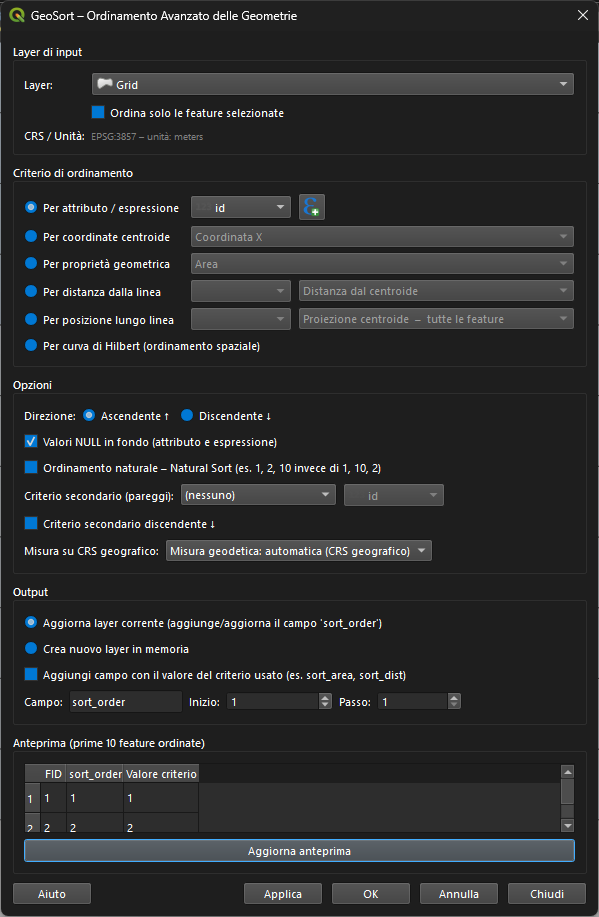
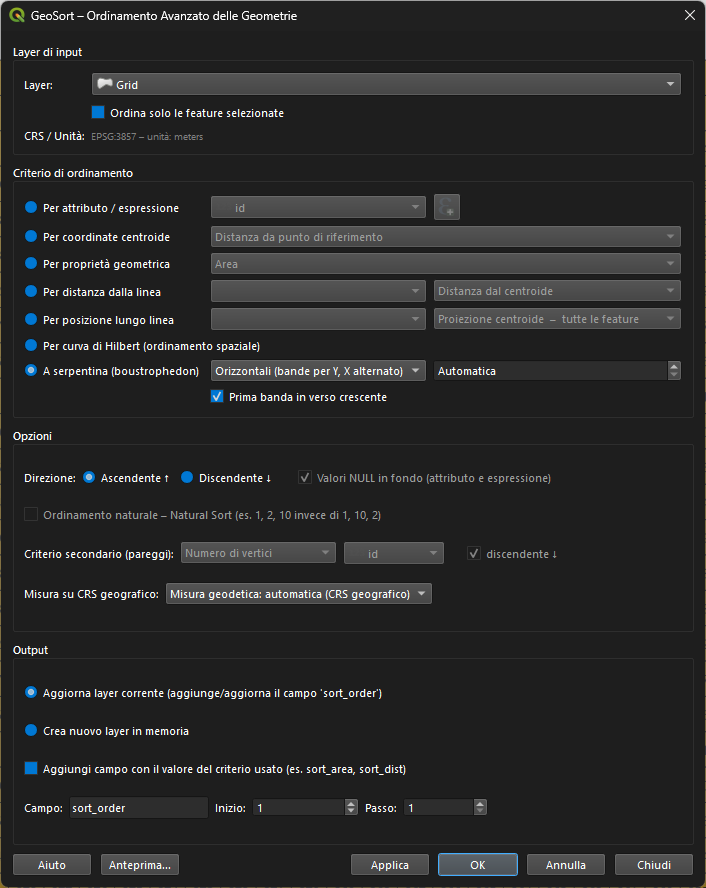
chore(release): 1.11.1 — dialogo GUI più compatto
- metadata.txt: version 1.11.0 -> 1.11.1, changelog aggiornato
- README.md / README.en.md: badge versione allineato a 1.11.1
- gui.png: screenshot aggiornato al nuovo layout compatto (anteprima
  in popup accanto ad Aiuto, Opzioni su righe unite, Serpentina)

Changed region(s): [[0.0, 0.0, 1.0, 1.0], [0.7513, 0.7601, 0.7813, 0.7905]]

diff --git a/README.md b/README.md
@@ -2,7 +2,7 @@
 
 🇮🇹 **Italiano** | [🇬🇧 English](README.en.md)
 
-[![Version](https://img.shields.io/badge/version-1.11.0-blue.svg)](https://github.com/pigreco/geosort/releases)
+[![Version](https://img.shields.io/badge/version-1.11.1-blue.svg)](https://github.com/pigreco/geosort/releases)
 [![Languages](https://img.shields.io/badge/languages-IT%20%7C%20EN-green.svg)](#lingue--languages)
 [![QGIS](https://img.shields.io/badge/QGIS-3.16%2B%20%7C%204.x-orange.svg)](#requisiti)
 [![License](https://img.shields.io/badge/license-GPLv2-red.svg)](LICENSE)

diff --git a/README.en.md b/README.en.md
@@ -2,7 +2,7 @@
 
 [🇮🇹 Italiano](README.md) | 🇬🇧 **English**
 
-[![Version](https://img.shields.io/badge/version-1.11.0-blue.svg)](https://github.com/pigreco/geosort/releases)
+[![Version](https://img.shields.io/badge/version-1.11.1-blue.svg)](https://github.com/pigreco/geosort/releases)
 [![Languages](https://img.shields.io/badge/languages-IT%20%7C%20EN-green.svg)](#languageslingue)
 [![QGIS](https://img.shields.io/badge/QGIS-3.16%2B%20%7C%204.x-orange.svg)](#requirements)
 [![License](https://img.shields.io/badge/license-GPLv2-red.svg)](LICENSE)
